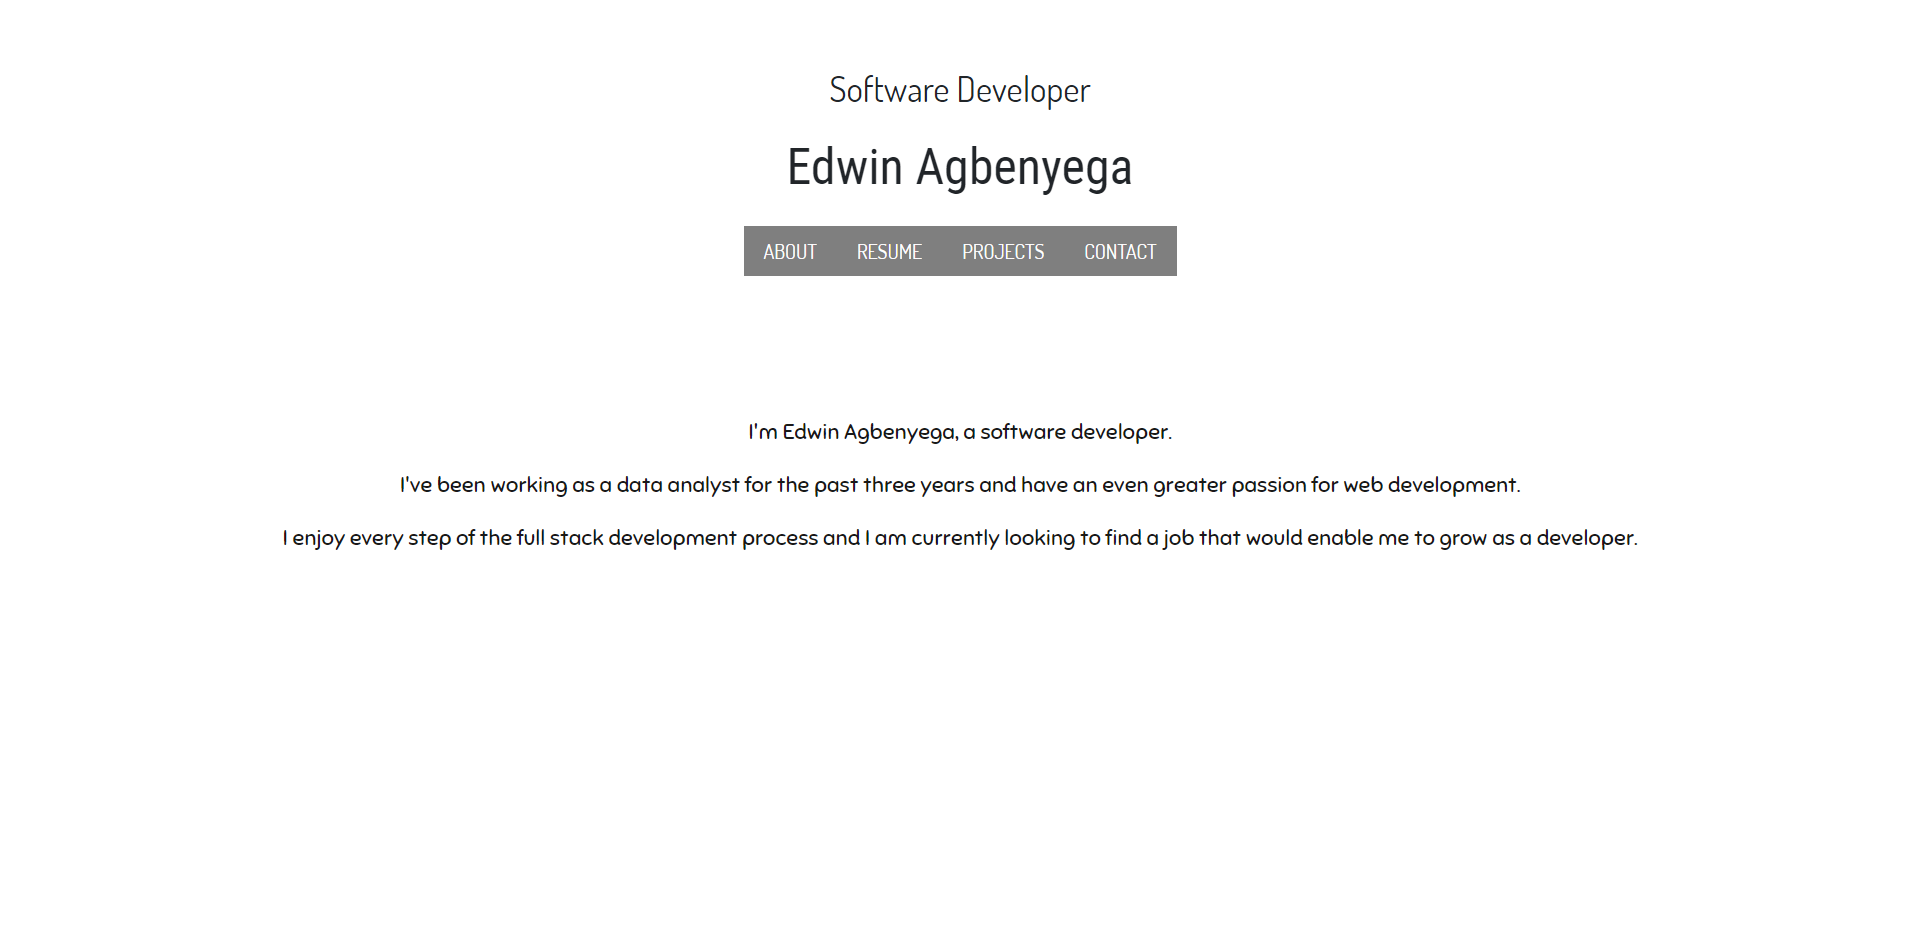
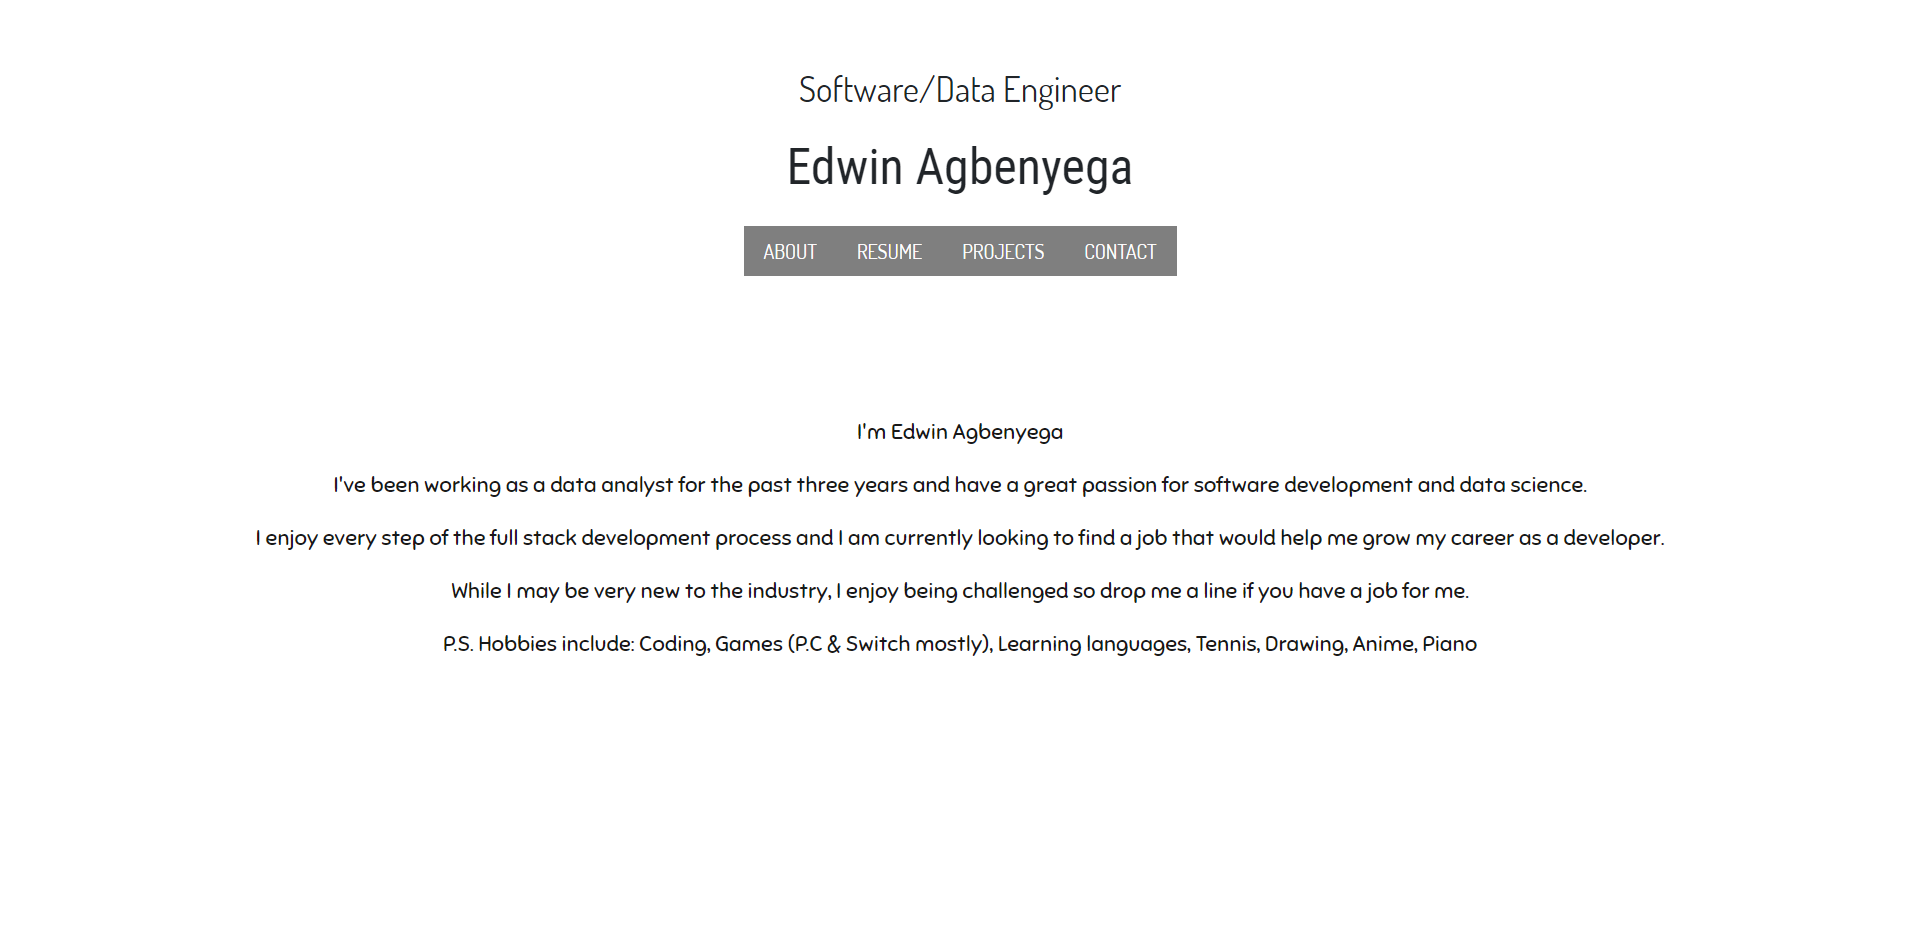
Add images to projects page and reword about page

diff --git a/src/components/projects/ProjectsContainer.js b/src/components/projects/ProjectsContainer.js
@@ -1,6 +1,7 @@
 import React, { Component } from 'react'
 import Projects from './Projects'
 import { Container } from 'reactstrap'
+import schooladmin from '../../assets/schooladmin.png'
 import hangout229 from '../../assets/hangout229.png'
 import kirtlandlogistics from '../../assets/kirtlandlogistics.png'
 import portfolio from '../../assets/portfolio.png'
@@ -11,6 +12,15 @@ class ProjectsContainer extends Component {
       { 
         id: 0,
         img: {
+        src: schooladmin,
+        alt: 'School Admin'
+        },
+        title: 'School Admin',
+        url: 'https://paper-huts.github.io/noble-dbms-app'
+      },
+      { 
+        id: 1,
+        img: {
         src: hangout229,
         alt: 'Hangout@229'
         },
@@ -18,7 +28,7 @@ class ProjectsContainer extends Component {
         url: 'https://eddybanks.github.io/hangout229'
       },
       { 
-        id: 1,
+        id: 2,
         img: {
         src: portfolio,
         alt: 'Lippia Tea'
@@ -27,23 +37,31 @@ class ProjectsContainer extends Component {
         url: 'https://eddybanks.github.io/portfolio'
       },
       { 
-        id: 1,
+        id: 3,
         img: {
         src: kirtlandlogistics,
         alt: 'Kirtland Logistics'
         },
         title: 'Kirtland Logistics',
         url: 'https://eddybanks.github.io/kirtland-logistics'
-      }
+      },
+      // { 
+      //   id: 4,
+      //   img: {
+      //   src: paperhuts,
+      //   alt: 'Paper Huts'
+      //   },
+      //   title: 'Paper Huts',
+      //   url: 'https://paperhuts.com'
+      // }
     ]
   }
 
   render() {
     return (
       <Container>
-        {/* <Projects projects={this.state.projects} /> */}
-        <p>Will be displayed soon!!</p>
-        <p>For now you can follow my <a href='https://github.com/eddybanks' target='_blank' rel='noopener noreferrer'>github</a> to check out projects I'm working on!!</p>
+        <Projects projects={this.state.projects} />
+        <p>You can follow my <a href='https://github.com/eddybanks' target='_blank' rel='noopener noreferrer'>github</a> to check out other projects I'm working on!!</p>
       </Container>
     )
   }

diff --git a/src/components/home/AboutContainer.js b/src/components/home/AboutContainer.js
@@ -5,9 +5,11 @@ class AboutContainer extends Component {
   state = {
     title: "About Me",
     content: [
-      "I'm Edwin Agbenyega, a software developer.",
-      "I've been working as a data analyst for the past three years and have an even greater passion for web development.",
-      "I enjoy every step of the full stack development process and I am currently looking to find a job that would enable me to grow as a developer."
+      "I'm Edwin Agbenyega",
+      "I've been working as a data analyst for the past three years and have a great passion for software development and data science.",
+      "I enjoy every step of the full stack development process and I am currently looking to find a job that would help me grow my career as a developer.",
+      "While I may be very new to the industry, I enjoy being challenged so drop me a line if you have a job for me.",
+      "P.S. Hobbies include: Coding, Games (P.C & Switch mostly), Learning languages, Tennis, Drawing, Anime, Piano"
     ]
   }
 

diff --git a/src/components/resume/ResumeContainer.js b/src/components/resume/ResumeContainer.js
@@ -21,7 +21,7 @@ class ResumeContainer extends Component {
           { title: 'Programming Languages: ', details: 'Javascript, Python, Ruby, Java, C#, C++, R (tidyverse)' },
           { title: 'Web Development: ', details: 'React & Redux, Ruby on rails, Apollo, GraphQL' },
           { title: 'Database Management and Data Analytics: ', details: 'PostgreSQL, MongoDB, Tableau, Oracle, MySQL' },
-          { title: 'Project Management & Version Control: ', details: 'Slack, Trello, Confluence, Git' }
+          { title: 'Documentation & Version Control Tools: ', details: 'Slack, Trello, Asana, Confluence, Git' }
         ] 
       },
       { id: 3, type: 'section', title: 'Work Experience', 

diff --git a/src/components/App.js b/src/components/App.js
@@ -22,7 +22,7 @@ class App extends Component {
     return (
       <Router>
         <div className={styles.App}>
-          <Header title="Software Developer" name="Edwin Agbenyega" navList={this.state.navList} />
+          <Header title="Software/Data Engineer" name="Edwin Agbenyega" navList={this.state.navList} />
           <section className={styles.Section}>
             <Switch>
               {this.state.navList.map(route => (
